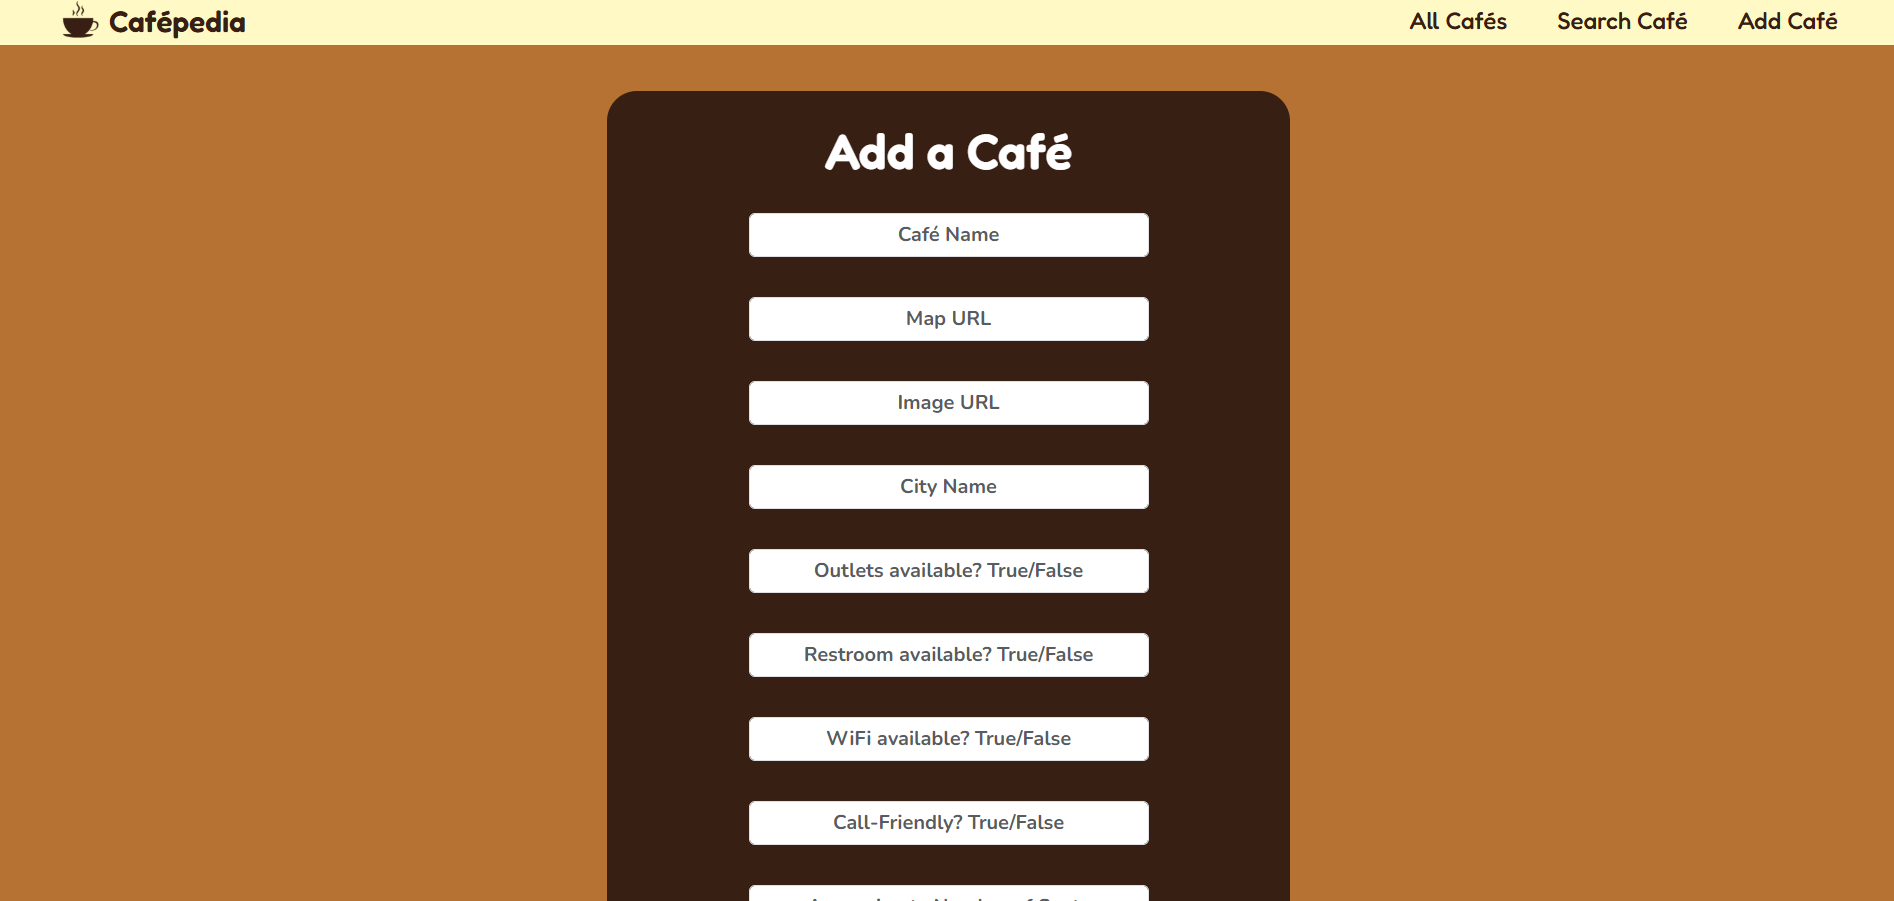
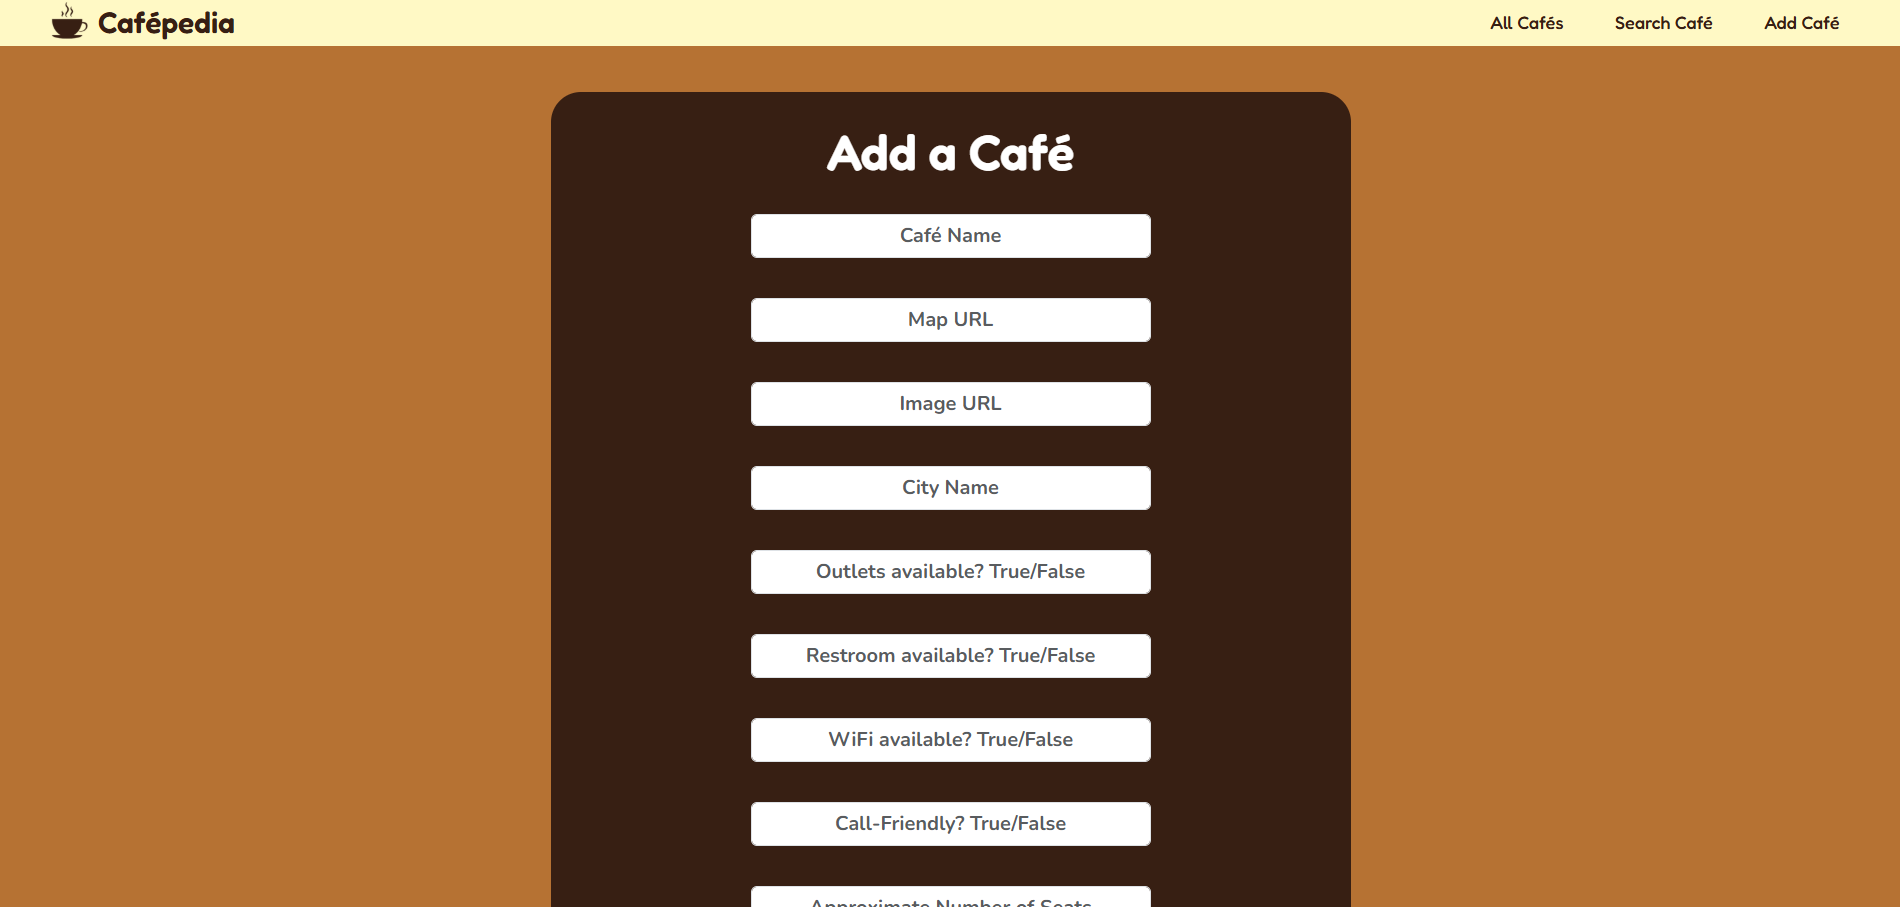
Main Branch - Done

diff --git a/static/css/styles.css b/static/css/styles.css
@@ -135,13 +135,16 @@ html, body {
 }
 
 @media (max-width: 1200px) {
+    .cafe-name {
+        text-align: center;
+    }
+}
+
+@media (max-width: 1200px) {
     .cafe-name-div {
         display: flex;
         flex-direction: column;
-        list-style-position: inside;
-        list-style-position: inside;
         margin-top: 15px;
-        text-align: center;
     }
 }
 
@@ -242,12 +245,31 @@ html, body {
     }
 }
 
-li {
+ul li {
     color: #371f13;
     font-family: "Nunito";
     font-size: 16px;
     font-weight: 500;
+    white-space: nowrap;
+    padding-right: 2em;
 }
+
+@media (max-width: 1200px) {
+    ul li {
+        text-align: center;
+        list-style-position: inside;
+    }
+}
+
+@media (max-width: 415px) {
+    ul li {
+        text-align: left;
+        list-style-position: outside;
+        margin-left: -5px;
+        padding-right: 0px;
+    }
+}
+
 
 .listing-btn {
     color: white;
@@ -371,9 +393,7 @@ li {
     color: #b67233;
 }
 
-ul {
-    padding-right: 2em;
-}
+
 
 #welcome-text {
     color: white;

diff --git a/README.md b/README.md
@@ -8,6 +8,10 @@ It also lets the user add/remove entries as well, however user's can't add two l
 ![Search Cafe by City](screenshots/cafe-search.png)
 ![Add Cafe](screenshots/cafe-add.png)
 
+### Mobile/Small Screen Example:
+
+![Mobile Version](screenshots/cafe-mobile.png)
+
 ## How It's Made:
 
 Tech used: HTML, CSS, Python, Flask/Bootstrap, SQLAlchemy, wtforms, flask_wtf 
